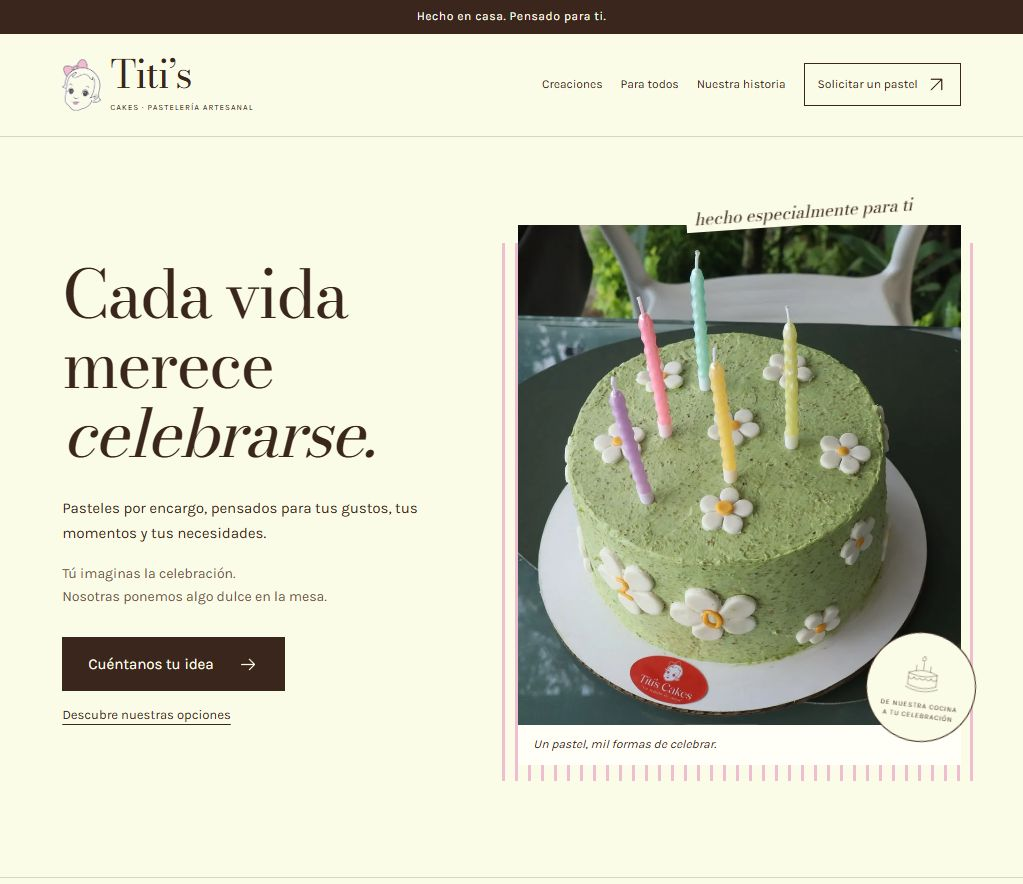
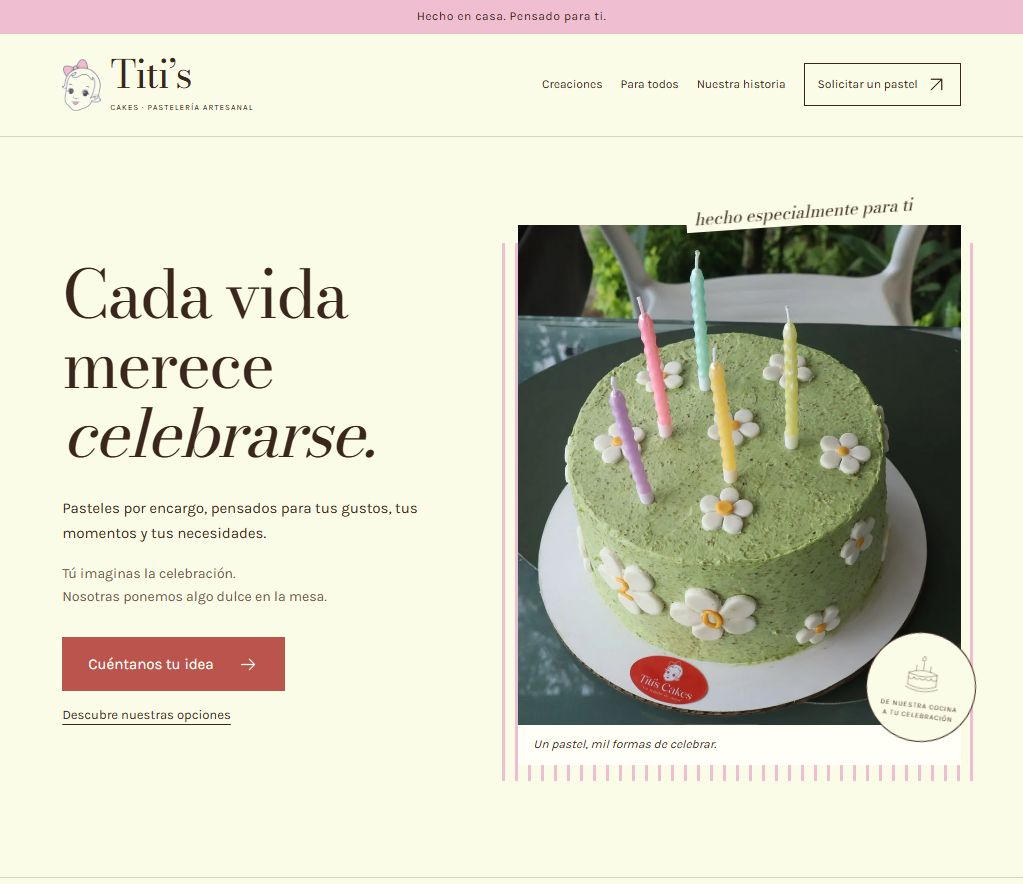
Apply the family's final pink cream cocoa and terracotta palette

Changed region(s): [[0.0, 0.0, 1.0, 0.0611], [0.0606, 0.7025, 0.303, 0.7941]]

diff --git a/styles.css b/styles.css
@@ -1,9 +1,9 @@
 @font-face{font-family:Bodoni;src:url('assets/fonts/bodoni-moda-latin-400-normal.woff2') format('woff2');font-weight:400;font-style:normal;font-display:swap}
 @font-face{font-family:Karla;src:url('assets/fonts/karla-latin-400-normal.woff2') format('woff2');font-weight:400;font-style:normal;font-display:swap}
-:root{--cream:#fbfce7;--pink:#f0bed1;--cocoa:#3a261c;--coffee:#715547;--rose:#945369;--paper:#fffef7;--line:#3a261c30;--serif:Bodoni,Georgia,serif;--sans:Karla,Arial,sans-serif;--ease-out:cubic-bezier(.23,1,.32,1);--ease-in-out:cubic-bezier(.77,0,.175,1);--gutter:clamp(24px,6vw,96px)}
-*{box-sizing:border-box}html{scroll-behavior:smooth;scroll-padding-top:25px;-webkit-text-size-adjust:100%;-webkit-tap-highlight-color:transparent;scrollbar-color:var(--coffee) var(--cream)}body{margin:0;background:var(--cream);color:var(--cocoa);font:17px/1.65 var(--sans);-webkit-font-smoothing:antialiased}body:has(dialog[open]){overflow:hidden}h1,h2,h3,p,figure{margin:0}h1,h2,h3{font-family:var(--serif);font-weight:400;text-wrap:balance}h1{font-size:clamp(62px,6.4vw,96px);line-height:1.04;letter-spacing:-.035em}h2{font-size:clamp(38px,4.2vw,64px);line-height:1.14;letter-spacing:-.025em}h3{font-size:28px;line-height:1.2;letter-spacing:-.015em}h1 em,h2 em{font-style:italic;font-family:var(--serif)}p{max-width:70ch}a{color:inherit;text-decoration:none}button,input,select,textarea{font:inherit;color:inherit}button{cursor:pointer}button,a{touch-action:manipulation}button{user-select:none;-webkit-user-select:none;-webkit-touch-callout:none}button{background:none;border:0}button:disabled{opacity:.5;cursor:wait}img{display:block;max-width:100%;height:auto}a:focus-visible,button:focus-visible,input:focus-visible,select:focus-visible,textarea:focus-visible,details:focus-visible,[tabindex="-1"]:focus-visible{outline:2px solid var(--rose);outline-offset:5px}::selection{background:var(--pink);color:var(--cocoa)}input,textarea{caret-color:var(--rose)}[hidden]{display:none!important}.icon-defs{position:absolute;width:0;height:0;overflow:hidden}.icon{display:inline-block;width:21px;height:21px;flex:none;fill:none;stroke:currentColor;stroke-width:1.4;stroke-linecap:round;stroke-linejoin:round;vertical-align:middle}.skip-link{position:fixed;left:16px;top:12px;transform:translateY(-150%);padding:12px 20px;background:var(--cocoa);color:var(--cream);z-index:100}.skip-link:focus{transform:none}.section{padding:110px var(--gutter)}.button{display:inline-flex;align-items:center;justify-content:space-between;gap:24px;min-height:54px;padding:15px 25px;border:1px solid var(--cocoa);font-size:15px;line-height:1.3;transition:background-color 180ms ease,color 180ms ease,transform 160ms var(--ease-out)}.button.dark{background:var(--cocoa);color:var(--cream)}.button:active{transform:scale(.98)}.text-link{display:inline-flex;align-items:center;gap:16px;padding:8px 0;border-bottom:1px solid currentColor;line-height:1.4;font-size:15px;text-underline-offset:5px;min-height:44px}.handnote,.signature{font:italic 21px/1.4 var(--serif)}.top-note{padding:7px 20px;text-align:center;background:var(--cocoa);color:var(--cream);font-size:12px;letter-spacing:.05em}.header{display:flex;justify-content:space-between;align-items:center;gap:30px;padding:22px var(--gutter);border-bottom:1px solid var(--line);position:relative;z-index:3;background:var(--cream)}.brand{display:flex;gap:15px;align-items:center}.brand-portrait{width:39px;height:52px;overflow:visible}.wordmark{font:400 46px/.95 var(--serif);letter-spacing:-.03em;white-space:nowrap}.wordmark>span{display:block;font:9px/1.5 var(--sans);letter-spacing:.13em;margin-top:9px;white-space:normal}.header nav{display:flex;align-items:center;gap:30px;font-size:14px}.header nav>a{padding:10px 0}.header nav>.nav-cta{display:flex;align-items:center;gap:20px;padding:13px 19px;border:1px solid var(--cocoa)}.menu-toggle{display:none}.hero{display:grid;grid-template-columns:1fr 1.15fr;gap:5vw;padding:46px var(--gutter) 54px;align-items:center;min-height:min(740px,calc(100svh - 140px))}.hero-copy{padding:15px 0 18px}.hero-copy>p{font-size:16px;max-width:365px;margin:28px 0 0;line-height:1.7}.hero-copy>.hero-detail{font-size:14px;margin-top:15px;color:var(--coffee)}.hero-copy .button{margin-top:28px}.hero-secondary{display:block;width:max-content;border-bottom:0;margin-top:7px;font-size:13px;text-decoration:underline;text-underline-offset:5px}.hero-art{position:relative;padding:0 0 15px 16px}.hero-art:before{content:'';position:absolute;inset:18px -18px -1px 0;background:repeating-linear-gradient(90deg,var(--pink) 0 3px,transparent 3px 13px);z-index:-1}.hero-photo{position:relative}.hero-photo>img{width:100%;height:clamp(410px,40vw,610px);object-fit:cover;object-position:48% center}.hero-photo figcaption{padding:10px 15px;background:var(--paper);font-size:12px;font-style:italic}.artisan-seal{position:absolute;right:-25px;bottom:38px;background:var(--cream);width:132px;height:132px;border:1px solid var(--cocoa);border-radius:50%;display:flex;align-items:center;justify-content:center;flex-direction:column;transform:rotate(7deg)}.artisan-seal svg{width:57px;height:52px;fill:none;stroke:var(--cocoa);margin-bottom:5px}.artisan-seal span{font-size:8px;letter-spacing:.1em;text-align:center;line-height:1.5}.hero-note{position:absolute;right:40px;top:-24px;transform:rotate(-4deg);font-size:17px;background:var(--cream);padding:0 8px}.brand-strip{display:flex;justify-content:center;align-items:center;gap:5vw;border-top:1px solid var(--line);border-bottom:1px solid var(--line);padding:22px var(--gutter)}.brand-strip p{font-size:14px}.brand-strip span{width:5px;height:5px;border:1px solid var(--cocoa);transform:rotate(45deg);flex:none}.section-heading{display:grid;grid-template-columns:1fr 1fr;gap:8vw;align-items:end;margin-bottom:44px}.section-heading>div>p{font-size:15px;max-width:400px;margin-bottom:10px}.gallery-toolbar{display:flex;align-items:center;justify-content:space-between;gap:20px;margin-bottom:25px}.filters{display:flex;flex-wrap:wrap;gap:8px}.filters button{font-size:13px;border:1px solid transparent;min-height:44px;padding:8px 17px}.filters button[aria-pressed=true]{border-color:var(--cocoa);background:var(--pink)}#gallery-count{font-size:12px;color:var(--coffee)}.gallery{display:grid;grid-template-columns:repeat(3,minmax(0,1fr));gap:26px;align-items:start}.creation:nth-child(2){margin-top:50px}.photo-button{display:block;padding:0;width:100%;position:relative;overflow:hidden;background:#e4e0d3}.photo-button>img{width:100%;aspect-ratio:.82;object-fit:cover;transition:transform 500ms var(--ease-out)}.creation:first-child .photo-button>img{object-position:47% center}.creation:nth-child(2) .photo-button>img{object-position:50% 50%}.creation:nth-child(3) .photo-button>img{object-position:49% center}.expand-icon{position:absolute;bottom:15px;right:15px;background:var(--cream);width:38px;height:38px;display:grid;place-items:center;border-radius:50%}.creation-caption{padding:20px 0 18px;border-bottom:1px solid var(--line)}.creation-caption h3{font-size:27px}.inspire-button{display:flex;align-items:center;gap:10px;font-size:12px;min-height:44px;padding:8px 0}.inspire-button .icon{width:15px;height:15px}.gallery-note{font-size:14px;max-width:660px;margin:36px auto 0;text-align:center;color:var(--coffee)}.inclusive{background:var(--paper);border-top:1px solid var(--line);border-bottom:1px solid var(--line);position:relative}.inclusive:before{content:'';position:absolute;top:0;left:0;right:0;height:15px;background:repeating-linear-gradient(90deg,var(--pink) 0 2px,transparent 2px 11px)}.inclusive-intro{text-align:center;max-width:780px;margin:0 auto}.floral-illustration{width:68px;height:60px;margin:0 auto 22px;display:block}.inclusive-intro>p{font-size:16px;max-width:590px;margin:25px auto 0}.options{display:grid;grid-template-columns:repeat(4,minmax(0,1fr));gap:30px;margin-top:58px}.option{border-top:1px solid var(--cocoa);padding-top:20px;display:flex;flex-direction:column;align-items:start}.option-illustration{width:80px;height:74px;margin-bottom:23px}.option h3{font-size:27px;margin-bottom:16px}.option p{font-size:14px;line-height:1.8;margin-bottom:20px}.option .text-link{font-size:12px;gap:8px;margin-top:auto;border-bottom:0}.option .text-link .icon{width:16px;height:16px}.ingredient-note{display:grid;grid-template-columns:1fr 3fr;gap:35px;border-top:1px solid var(--line);margin-top:45px;padding-top:23px}.ingredient-note>p:first-child{font-family:var(--serif);font-size:23px;line-height:1.3}.ingredient-note>p:last-child{font-size:12px;max-width:780px;color:var(--coffee)}.story{display:grid;grid-template-columns:.9fr 1.1fr;gap:10vw;align-items:center}.story-art{position:relative;padding:30px 0 20px}.story-paper{position:relative;z-index:1;text-align:center;min-height:430px;display:flex;align-items:center;justify-content:center;flex-direction:column;border:1px solid var(--line);background:var(--paper);transform:rotate(-3deg)}.story-paper>svg{width:118px;height:156px;margin-bottom:27px;overflow:visible}.story-paper>span{font-size:9px;letter-spacing:.15em;margin-top:18px}.story-stripes{position:absolute;left:25px;right:-20px;top:60px;bottom:0;background:repeating-linear-gradient(90deg,var(--pink) 0 6px,transparent 6px 18px);transform:rotate(3deg)}.story-copy h2{margin-bottom:29px}.story-copy>p{font-size:15px;margin:17px 0}.story-copy>.story-close{font-family:var(--serif);font-size:23px;margin-top:23px}.signature{display:block;margin-top:24px;font-size:20px;color:var(--coffee)}.process{border-top:1px solid var(--line);padding-bottom:0}.process-heading{display:flex;justify-content:space-between;align-items:end;gap:30px}.process-heading>p{font-size:14px;max-width:260px}.steps{list-style:none;margin:45px 0 60px;padding:0;display:grid;grid-template-columns:repeat(3,1fr);gap:40px}.steps li{border-top:1px solid var(--line);padding-top:22px}.steps li>span{font:italic 25px/1 var(--serif);color:var(--rose);display:block;margin-bottom:20px}.steps h3{font-size:27px;margin-bottom:16px}.steps p{font-size:14px;max-width:320px}.process-ribbon{border-block:1px solid var(--line);padding:28px;display:flex;align-items:center;justify-content:center;gap:30px;background:repeating-linear-gradient(90deg,#f0bed130 0 2px,transparent 2px 15px)}.process-ribbon svg{width:68px;height:63px}.process-ribbon p{font:23px/1.4 var(--serif)}.order{display:grid;grid-template-columns:.9fr 1.1fr;gap:8vw}.order-copy{align-self:start;position:sticky;top:40px}.order-copy>p{font-size:15px;max-width:360px;margin-top:26px}.contact-block{border-top:1px solid var(--line);padding-top:24px;margin-top:32px;display:flex;align-items:start;flex-direction:column;gap:10px;font-size:14px}.contact-block p{font-size:13px}.contact-block .phone{font-size:20px}.order-copy>.form-privacy{font-size:12px;color:var(--coffee);max-width:340px;margin-top:30px}.order-form{padding-top:7px}.form-intro{font-family:var(--serif);font-size:25px;border-bottom:1px solid var(--line);padding-bottom:20px;margin-bottom:25px}.form-intro span{display:block;font-family:var(--sans);font-size:11px;color:var(--coffee);margin-top:9px}.form-grid{display:grid;grid-template-columns:1fr 1fr;gap:20px}.field.full{grid-column:1/-1}.field>label{display:block;font-size:13px;margin-bottom:8px;line-height:1.4}.field label span{color:var(--coffee)}input,select,textarea{font-size:16px;background:var(--paper);border:1px solid #3a261c59;padding:12px 13px;border-radius:0;width:100%;min-height:49px;line-height:1.4;appearance:auto}textarea{resize:vertical;min-height:90px}input::placeholder,textarea::placeholder{color:#7e6c60;opacity:1}[aria-invalid=true]{border-color:#9f3546}.field-error{font-size:12px;color:#9f3546;line-height:1.5;margin-top:5px}.field-error:empty{display:none}.field-hint{font-size:11px;color:var(--coffee);line-height:1.6;margin-top:8px}.inspiration-field{border-top:1px solid var(--line);padding-top:24px}input[type=file]{font-size:12px;padding:8px;background:none;border-style:dashed;min-height:48px}input[type=file]::file-selector-button{background:var(--pink);border:0;padding:8px 12px;font:12px var(--sans);color:var(--cocoa);margin-right:10px}#file-preview{display:flex;gap:16px;align-items:center;margin-top:14px}#inspiration-preview{width:70px;height:70px;object-fit:cover}#remove-file{font-size:12px}.submit-order{margin-top:25px;width:100%}.submit-note{font-size:11px;text-align:center;margin-top:9px;color:var(--coffee)}.form-errors{border:1px solid #9f3546;padding:16px;margin-bottom:20px;font-size:13px;background:#f0bed130}.form-errors ul{margin:8px 0 0;padding-left:18px}.form-errors a{text-decoration:underline}.message-review{border-top:1px solid var(--cocoa);margin-top:30px;padding-top:24px}.message-review h3{font-size:28px;margin-bottom:15px}.message-review pre{font:13px/1.7 var(--sans);white-space:pre-wrap;overflow-wrap:anywhere;background:var(--paper);border:1px solid var(--line);padding:18px;margin:0 0 20px}.message-review .button{width:100%}.closing-note{border-top:1px solid var(--line);padding:45px 24px;text-align:center;background:repeating-linear-gradient(90deg,#f0bed125 0 3px,transparent 3px 18px)}.closing-note img{margin:0 auto 18px}.closing-note p{font:29px/1.3 var(--serif);margin:auto}footer{padding:48px var(--gutter);background:var(--cocoa);color:var(--cream);display:grid;grid-template-columns:1.2fr 1fr .7fr .7fr;gap:35px;align-items:start}footer .wordmark{font-size:43px}footer .wordmark>span{font-size:8px;max-width:185px;line-height:1.8}footer p{font-size:12px;line-height:1.9}footer nav,footer>div{display:flex;align-items:start;flex-direction:column;gap:11px;font-size:12px}footer a:focus-visible{outline-color:var(--pink)}dialog{border:1px solid var(--cocoa);background:var(--cream);padding:22px;width:min(880px,92vw);max-height:92svh;color:var(--cocoa);overflow:auto}dialog::backdrop{background:#21160fbb}dialog>img{width:100%;max-height:72svh;object-fit:contain}dialog>p{font:22px/1.5 var(--serif);text-align:center;padding:16px 15px 0}.dialog-close{position:absolute;right:25px;top:25px;display:grid;place-items:center;width:44px;height:44px;background:var(--cream);border:1px solid var(--line);z-index:1}
+:root{--cream:#fbfce7;--pink:#f0bed1;--cocoa:#3a261c;--coffee:#715547;--accent:#bb544c;--paper:#fffef7;--line:#3a261c30;--serif:Bodoni,Georgia,serif;--sans:Karla,Arial,sans-serif;--ease-out:cubic-bezier(.23,1,.32,1);--ease-in-out:cubic-bezier(.77,0,.175,1);--gutter:clamp(24px,6vw,96px)}
+*{box-sizing:border-box}html{scroll-behavior:smooth;scroll-padding-top:25px;-webkit-text-size-adjust:100%;-webkit-tap-highlight-color:transparent;scrollbar-color:var(--coffee) var(--cream)}body{margin:0;background:var(--cream);color:var(--cocoa);font:17px/1.65 var(--sans);-webkit-font-smoothing:antialiased}body:has(dialog[open]){overflow:hidden}h1,h2,h3,p,figure{margin:0}h1,h2,h3{font-family:var(--serif);font-weight:400;text-wrap:balance}h1{font-size:clamp(62px,6.4vw,96px);line-height:1.04;letter-spacing:-.035em}h2{font-size:clamp(38px,4.2vw,64px);line-height:1.14;letter-spacing:-.025em}h3{font-size:28px;line-height:1.2;letter-spacing:-.015em}h1 em,h2 em{font-style:italic;font-family:var(--serif)}p{max-width:70ch}a{color:inherit;text-decoration:none}button,input,select,textarea{font:inherit;color:inherit}button{cursor:pointer}button,a{touch-action:manipulation}button{user-select:none;-webkit-user-select:none;-webkit-touch-callout:none}button{background:none;border:0}button:disabled{opacity:.5;cursor:wait}img{display:block;max-width:100%;height:auto}a:focus-visible,button:focus-visible,input:focus-visible,select:focus-visible,textarea:focus-visible,details:focus-visible,[tabindex="-1"]:focus-visible{outline:2px solid var(--accent);outline-offset:5px}::selection{background:var(--pink);color:var(--cocoa)}input,textarea{caret-color:var(--accent)}[hidden]{display:none!important}.icon-defs{position:absolute;width:0;height:0;overflow:hidden}.icon{display:inline-block;width:21px;height:21px;flex:none;fill:none;stroke:currentColor;stroke-width:1.4;stroke-linecap:round;stroke-linejoin:round;vertical-align:middle}.skip-link{position:fixed;left:16px;top:12px;transform:translateY(-150%);padding:12px 20px;background:var(--cocoa);color:var(--cream);z-index:100}.skip-link:focus{transform:none}.section{padding:110px var(--gutter)}.button{display:inline-flex;align-items:center;justify-content:space-between;gap:24px;min-height:54px;padding:15px 25px;border:1px solid var(--cocoa);font-size:15px;line-height:1.3;transition:background-color 180ms ease,color 180ms ease,transform 160ms var(--ease-out)}.button.dark{background:var(--accent);border-color:var(--accent);color:var(--paper)}.button:active{transform:scale(.98)}.text-link{display:inline-flex;align-items:center;gap:16px;padding:8px 0;border-bottom:1px solid currentColor;line-height:1.4;font-size:15px;text-underline-offset:5px;min-height:44px}.handnote,.signature{font:italic 21px/1.4 var(--serif)}.top-note{padding:7px 20px;text-align:center;background:var(--pink);color:var(--cocoa);font-size:12px;letter-spacing:.05em}.header{display:flex;justify-content:space-between;align-items:center;gap:30px;padding:22px var(--gutter);border-bottom:1px solid var(--line);position:relative;z-index:3;background:var(--cream)}.brand{display:flex;gap:15px;align-items:center}.brand-portrait{width:39px;height:52px;overflow:visible}.wordmark{font:400 46px/.95 var(--serif);letter-spacing:-.03em;white-space:nowrap}.wordmark>span{display:block;font:9px/1.5 var(--sans);letter-spacing:.13em;margin-top:9px;white-space:normal}.header nav{display:flex;align-items:center;gap:30px;font-size:14px}.header nav>a{padding:10px 0}.header nav>.nav-cta{display:flex;align-items:center;gap:20px;padding:13px 19px;border:1px solid var(--cocoa)}.menu-toggle{display:none}.hero{display:grid;grid-template-columns:1fr 1.15fr;gap:5vw;padding:46px var(--gutter) 54px;align-items:center;min-height:min(740px,calc(100svh - 140px))}.hero-copy{padding:15px 0 18px}.hero-copy>p{font-size:16px;max-width:365px;margin:28px 0 0;line-height:1.7}.hero-copy>.hero-detail{font-size:14px;margin-top:15px;color:var(--coffee)}.hero-copy .button{margin-top:28px}.hero-secondary{display:block;width:max-content;border-bottom:0;margin-top:7px;font-size:13px;text-decoration:underline;text-underline-offset:5px}.hero-art{position:relative;padding:0 0 15px 16px}.hero-art:before{content:'';position:absolute;inset:18px -18px -1px 0;background:repeating-linear-gradient(90deg,var(--pink) 0 3px,transparent 3px 13px);z-index:-1}.hero-photo{position:relative}.hero-photo>img{width:100%;height:clamp(410px,40vw,610px);object-fit:cover;object-position:48% center}.hero-photo figcaption{padding:10px 15px;background:var(--paper);font-size:12px;font-style:italic}.artisan-seal{position:absolute;right:-25px;bottom:38px;background:var(--cream);width:132px;height:132px;border:1px solid var(--cocoa);border-radius:50%;display:flex;align-items:center;justify-content:center;flex-direction:column;transform:rotate(7deg)}.artisan-seal svg{width:57px;height:52px;fill:none;stroke:var(--cocoa);margin-bottom:5px}.artisan-seal span{font-size:8px;letter-spacing:.1em;text-align:center;line-height:1.5}.hero-note{position:absolute;right:40px;top:-24px;transform:rotate(-4deg);font-size:17px;background:var(--cream);padding:0 8px}.brand-strip{display:flex;justify-content:center;align-items:center;gap:5vw;border-top:1px solid var(--line);border-bottom:1px solid var(--line);padding:22px var(--gutter)}.brand-strip p{font-size:14px}.brand-strip span{width:5px;height:5px;border:1px solid var(--cocoa);transform:rotate(45deg);flex:none}.section-heading{display:grid;grid-template-columns:1fr 1fr;gap:8vw;align-items:end;margin-bottom:44px}.section-heading>div>p{font-size:15px;max-width:400px;margin-bottom:10px}.gallery-toolbar{display:flex;align-items:center;justify-content:space-between;gap:20px;margin-bottom:25px}.filters{display:flex;flex-wrap:wrap;gap:8px}.filters button{font-size:13px;border:1px solid transparent;min-height:44px;padding:8px 17px}.filters button[aria-pressed=true]{border-color:var(--cocoa);background:var(--pink)}#gallery-count{font-size:12px;color:var(--coffee)}.gallery{display:grid;grid-template-columns:repeat(3,minmax(0,1fr));gap:26px;align-items:start}.creation:nth-child(2){margin-top:50px}.photo-button{display:block;padding:0;width:100%;position:relative;overflow:hidden;background:#e4e0d3}.photo-button>img{width:100%;aspect-ratio:.82;object-fit:cover;transition:transform 500ms var(--ease-out)}.creation:first-child .photo-button>img{object-position:47% center}.creation:nth-child(2) .photo-button>img{object-position:50% 50%}.creation:nth-child(3) .photo-button>img{object-position:49% center}.expand-icon{position:absolute;bottom:15px;right:15px;background:var(--cream);width:38px;height:38px;display:grid;place-items:center;border-radius:50%}.creation-caption{padding:20px 0 18px;border-bottom:1px solid var(--line)}.creation-caption h3{font-size:27px}.inspire-button{display:flex;align-items:center;gap:10px;font-size:12px;min-height:44px;padding:8px 0}.inspire-button .icon{width:15px;height:15px}.gallery-note{font-size:14px;max-width:660px;margin:36px auto 0;text-align:center;color:var(--coffee)}.inclusive{background:var(--paper);border-top:1px solid var(--line);border-bottom:1px solid var(--line);position:relative}.inclusive:before{content:'';position:absolute;top:0;left:0;right:0;height:15px;background:repeating-linear-gradient(90deg,var(--pink) 0 2px,transparent 2px 11px)}.inclusive-intro{text-align:center;max-width:780px;margin:0 auto}.floral-illustration{width:68px;height:60px;margin:0 auto 22px;display:block}.inclusive-intro>p{font-size:16px;max-width:590px;margin:25px auto 0}.options{display:grid;grid-template-columns:repeat(4,minmax(0,1fr));gap:30px;margin-top:58px}.option{border-top:1px solid var(--cocoa);padding-top:20px;display:flex;flex-direction:column;align-items:start}.option-illustration{width:80px;height:74px;margin-bottom:23px}.option h3{font-size:27px;margin-bottom:16px}.option p{font-size:14px;line-height:1.8;margin-bottom:20px}.option .text-link{font-size:12px;gap:8px;margin-top:auto;border-bottom:0}.option .text-link .icon{width:16px;height:16px}.ingredient-note{display:grid;grid-template-columns:1fr 3fr;gap:35px;border-top:1px solid var(--line);margin-top:45px;padding-top:23px}.ingredient-note>p:first-child{font-family:var(--serif);font-size:23px;line-height:1.3}.ingredient-note>p:last-child{font-size:12px;max-width:780px;color:var(--coffee)}.story{display:grid;grid-template-columns:.9fr 1.1fr;gap:10vw;align-items:center}.story-art{position:relative;padding:30px 0 20px}.story-paper{position:relative;z-index:1;text-align:center;min-height:430px;display:flex;align-items:center;justify-content:center;flex-direction:column;border:1px solid var(--line);background:var(--paper);transform:rotate(-3deg)}.story-paper>svg{width:118px;height:156px;margin-bottom:27px;overflow:visible}.story-paper>span{font-size:9px;letter-spacing:.15em;margin-top:18px}.story-stripes{position:absolute;left:25px;right:-20px;top:60px;bottom:0;background:repeating-linear-gradient(90deg,var(--pink) 0 6px,transparent 6px 18px);transform:rotate(3deg)}.story-copy h2{margin-bottom:29px}.story-copy>p{font-size:15px;margin:17px 0}.story-copy>.story-close{font-family:var(--serif);font-size:23px;margin-top:23px}.signature{display:block;margin-top:24px;font-size:20px;color:var(--coffee)}.process{border-top:1px solid var(--line);padding-bottom:0}.process-heading{display:flex;justify-content:space-between;align-items:end;gap:30px}.process-heading>p{font-size:14px;max-width:260px}.steps{list-style:none;margin:45px 0 60px;padding:0;display:grid;grid-template-columns:repeat(3,1fr);gap:40px}.steps li{border-top:1px solid var(--line);padding-top:22px}.steps li>span{font:italic 25px/1 var(--serif);color:var(--accent);display:block;margin-bottom:20px}.steps h3{font-size:27px;margin-bottom:16px}.steps p{font-size:14px;max-width:320px}.process-ribbon{border-block:1px solid var(--line);padding:28px;display:flex;align-items:center;justify-content:center;gap:30px;background:repeating-linear-gradient(90deg,#f0bed130 0 2px,transparent 2px 15px)}.process-ribbon svg{width:68px;height:63px}.process-ribbon p{font:23px/1.4 var(--serif)}.order{display:grid;grid-template-columns:.9fr 1.1fr;gap:8vw}.order-copy{align-self:start;position:sticky;top:40px}.order-copy>p{font-size:15px;max-width:360px;margin-top:26px}.contact-block{border-top:1px solid var(--line);padding-top:24px;margin-top:32px;display:flex;align-items:start;flex-direction:column;gap:10px;font-size:14px}.contact-block p{font-size:13px}.contact-block .phone{font-size:20px}.order-copy>.form-privacy{font-size:12px;color:var(--coffee);max-width:340px;margin-top:30px}.order-form{padding-top:7px}.form-intro{font-family:var(--serif);font-size:25px;border-bottom:1px solid var(--line);padding-bottom:20px;margin-bottom:25px}.form-intro span{display:block;font-family:var(--sans);font-size:11px;color:var(--coffee);margin-top:9px}.form-grid{display:grid;grid-template-columns:1fr 1fr;gap:20px}.field.full{grid-column:1/-1}.field>label{display:block;font-size:13px;margin-bottom:8px;line-height:1.4}.field label span{color:var(--coffee)}input,select,textarea{font-size:16px;background:var(--paper);border:1px solid #3a261c59;padding:12px 13px;border-radius:0;width:100%;min-height:49px;line-height:1.4;appearance:auto}textarea{resize:vertical;min-height:90px}input::placeholder,textarea::placeholder{color:#7e6c60;opacity:1}[aria-invalid=true]{border-color:var(--accent)}.field-error{font-size:12px;color:var(--cocoa);line-height:1.5;margin-top:5px}.field-error:empty{display:none}.field-hint{font-size:11px;color:var(--coffee);line-height:1.6;margin-top:8px}.inspiration-field{border-top:1px solid var(--line);padding-top:24px}input[type=file]{font-size:12px;padding:8px;background:none;border-style:dashed;min-height:48px}input[type=file]::file-selector-button{background:var(--pink);border:0;padding:8px 12px;font:12px var(--sans);color:var(--cocoa);margin-right:10px}#file-preview{display:flex;gap:16px;align-items:center;margin-top:14px}#inspiration-preview{width:70px;height:70px;object-fit:cover}#remove-file{font-size:12px}.submit-order{margin-top:25px;width:100%}.submit-note{font-size:11px;text-align:center;margin-top:9px;color:var(--coffee)}.form-errors{border:1px solid var(--accent);padding:16px;margin-bottom:20px;font-size:13px;background:#f0bed130}.form-errors ul{margin:8px 0 0;padding-left:18px}.form-errors a{text-decoration:underline}.message-review{border-top:1px solid var(--cocoa);margin-top:30px;padding-top:24px}.message-review h3{font-size:28px;margin-bottom:15px}.message-review pre{font:13px/1.7 var(--sans);white-space:pre-wrap;overflow-wrap:anywhere;background:var(--paper);border:1px solid var(--line);padding:18px;margin:0 0 20px}.message-review .button{width:100%}.closing-note{border-top:1px solid var(--line);padding:45px 24px;text-align:center;background:repeating-linear-gradient(90deg,#f0bed125 0 3px,transparent 3px 18px)}.closing-note img{margin:0 auto 18px}.closing-note p{font:29px/1.3 var(--serif);margin:auto}footer{padding:48px var(--gutter);background:var(--cocoa);color:var(--cream);display:grid;grid-template-columns:1.2fr 1fr .7fr .7fr;gap:35px;align-items:start}footer .wordmark{font-size:43px}footer .wordmark>span{font-size:8px;max-width:185px;line-height:1.8}footer p{font-size:12px;line-height:1.9}footer nav,footer>div{display:flex;align-items:start;flex-direction:column;gap:11px;font-size:12px}footer a:focus-visible{outline-color:var(--pink)}dialog{border:1px solid var(--cocoa);background:var(--cream);padding:22px;width:min(880px,92vw);max-height:92svh;color:var(--cocoa);overflow:auto}dialog::backdrop{background:#21160fbb}dialog>img{width:100%;max-height:72svh;object-fit:contain}dialog>p{font:22px/1.5 var(--serif);text-align:center;padding:16px 15px 0}.dialog-close{position:absolute;right:25px;top:25px;display:grid;place-items:center;width:44px;height:44px;background:var(--cream);border:1px solid var(--line);z-index:1}
 .option-illustration,.floral-illustration,.process-ribbon svg{fill:none;stroke:var(--cocoa);stroke-width:1.5;stroke-linecap:round;stroke-linejoin:round}
-@media(hover:hover) and (pointer:fine){.button.dark:hover{background:var(--rose);border-color:var(--rose)}.text-link:hover,.header nav>a:hover,footer a:hover{text-decoration:underline;text-underline-offset:5px}.photo-button:hover img{transform:scale(1.035)}.filters button:hover{border-color:var(--line)}.inspire-button:hover{text-decoration:underline;text-underline-offset:4px}.nav-cta:hover{background:var(--pink)}}
+@media(hover:hover) and (pointer:fine){.button.dark:hover{background:var(--cocoa);border-color:var(--cocoa);color:var(--cream)}.text-link:hover,.header nav>a:hover,footer a:hover{text-decoration:underline;text-underline-offset:5px}.photo-button:hover img{transform:scale(1.035)}.filters button:hover{border-color:var(--line)}.inspire-button:hover{text-decoration:underline;text-underline-offset:4px}.nav-cta:hover{background:var(--pink)}}
 @media(min-width:1650px){:root{--gutter:max(96px,calc((100vw - 1450px)/2))}.hero{min-height:760px}.hero-photo>img{height:610px}}
 @media(max-width:1050px){.header nav{gap:18px;font-size:12px}.header nav>.nav-cta{padding:10px 13px;gap:8px}.brand{gap:9px}.wordmark{font-size:39px}.wordmark>span{font-size:8px}.hero{gap:4vw}.hero-photo>img{height:500px}.hero-copy>p{font-size:15px}.options{gap:20px}.option h3{font-size:24px}.option p{font-size:13px}.option .text-link{font-size:11px}.story{gap:7vw}.order{gap:5vw}.section{padding-block:85px}.artisan-seal{width:110px;height:110px;right:-15px}.artisan-seal svg{width:43px;height:43px}.artisan-seal span{font-size:7px}}
 @media(max-width:760px){body{font-size:16px}.top-note{font-size:11px;padding-top:calc(6px + env(safe-area-inset-top,0px));padding-bottom:6px}.header{padding:17px 24px;gap:16px}.brand-portrait{width:31px;height:42px}.wordmark{font-size:37px}.wordmark>span{font-size:7px;letter-spacing:.1em}.menu-toggle{display:flex;gap:12px;align-items:center;min-height:44px;font-size:13px;padding:0 0 0 10px}.menu-lines{width:19px;height:11px;border-block:1px solid var(--cocoa)}.header nav{display:flex;flex-direction:column;position:absolute;left:0;right:0;top:100%;background:var(--cream);border-bottom:1px solid var(--line);padding:20px 24px 27px;align-items:stretch;gap:3px;font-size:16px}.header nav[hidden]{display:none}.header nav>a{min-height:44px}.header nav>.nav-cta{padding:14px 17px;justify-content:space-between;margin-top:9px}.hero{display:flex;flex-direction:column;align-items:stretch;padding:27px 24px 35px;gap:32px;min-height:0}.hero-copy{padding:0}.hero h1{font-size:clamp(55px,13vw,82px);line-height:1.04;letter-spacing:-.03em}.hero h1 br:nth-child(2){display:none}.hero h1 em:before{content:' '}.hero-copy>p{font-size:15px;max-width:390px;margin-top:20px}.hero-copy>.hero-detail{font-size:13px;margin-top:12px}.hero-copy .button{margin-top:22px;min-width:230px}.hero-secondary{font-size:12px;margin-top:5px}.hero-art{padding-left:8px;padding-bottom:11px;margin-right:9px}.hero-art:before{inset:12px -12px -1px 0}.hero-photo>img{height:auto;aspect-ratio:1.1;object-position:50% center}.hero-note{font-size:14px;right:18px;top:-17px}.hero-photo figcaption{font-size:11px;padding:9px 11px}.artisan-seal{right:-19px;bottom:42px;width:87px;height:87px}.artisan-seal svg{width:34px;height:31px;margin-bottom:4px}.artisan-seal span{font-size:6px}.brand-strip{padding:17px 24px;gap:12px;justify-content:space-between}.brand-strip p{font-size:10px;line-height:1.4;max-width:90px;text-align:center}.brand-strip span{width:4px;height:4px}.section{padding:64px 24px}h2{font-size:40px;letter-spacing:-.025em}.section-heading{display:block;margin-bottom:30px}.section-heading>div{margin-top:23px}.section-heading>div>p{font-size:14px}.gallery-toolbar{display:block;margin-bottom:23px}.filters{gap:3px;justify-content:space-between}.filters button{font-size:12px;padding:8px 10px}.gallery-toolbar>p{margin-top:12px;font-size:11px}.gallery{grid-template-columns:1fr;gap:30px}.creation:nth-child(2){margin:0}.photo-button>img{aspect-ratio:1.02}.creation:nth-child(2) .photo-button>img{aspect-ratio:1.1}.creation:nth-child(3) .photo-button>img{aspect-ratio:.95;object-position:50% 35%}.creation-caption{display:flex;align-items:center;justify-content:space-between;gap:14px;padding:16px 0}.creation-caption h3{font-size:25px;max-width:180px}.inspire-button{font-size:10px;gap:5px;padding:0;text-align:left;max-width:102px;line-height:1.4}.gallery-note{font-size:13px;text-align:left;margin-top:25px}.inclusive-intro{text-align:left}.floral-illustration{width:55px;height:50px;margin:0 0 22px}.inclusive-intro h2 br{display:none}.inclusive-intro>p{font-size:14px;margin-top:22px}.options{grid-template-columns:1fr 1fr;gap:32px 23px;margin-top:35px}.option-illustration{width:61px;height:56px;margin-bottom:17px}.option h3{font-size:25px;min-height:60px;margin-bottom:10px}.option p{font-size:13px;line-height:1.7}.option .text-link{font-size:11px;gap:5px;align-items:flex-start;min-height:44px}.ingredient-note{display:block;margin-top:30px;padding-top:20px}.ingredient-note>p:first-child{font-size:23px;margin-bottom:13px}.ingredient-note>p:last-child{font-size:11px}.story{display:flex;flex-direction:column;gap:43px}.story-art{width:85%;max-width:360px;align-self:center;padding-top:0}.story-paper{min-height:340px}.story-paper>svg{width:92px;height:122px;margin-bottom:20px}.story-stripes{top:30px;right:-15px;left:18px}.story-paper .handnote{font-size:20px}.story-copy h2{margin-bottom:22px}.story-copy>p{font-size:14px}.story-copy>.story-close{font-size:23px}.process-heading{display:block}.process-heading>p{font-size:13px;margin-top:22px;max-width:330px}.steps{display:block;margin:30px 0 35px}.steps li{display:grid;grid-template-columns:38px 1fr;gap:8px 12px;padding:24px 0 0;margin-top:24px}.steps li>span{grid-row:1/3;margin-top:4px;font-size:22px}.steps h3{font-size:25px;margin:0}.steps p{font-size:13px;grid-column:2}.process-ribbon{padding:23px 16px;gap:15px}.process-ribbon svg{width:55px;height:50px}.process-ribbon p{font-size:20px}.order{display:block}.order-copy{position:static}.order-copy>p{font-size:14px;max-width:420px;margin-top:22px}.contact-block{margin-top:25px}.order-copy>.form-privacy{max-width:none;font-size:11px;margin-top:22px}.order-form{margin-top:37px}.form-grid{gap:20px 15px}.field>label{font-size:12px;min-height:17px}.form-intro{font-size:26px}.form-grid>.field:nth-child(2)>label{min-height:17px}.field:nth-child(4),.field:nth-child(5),.field:nth-child(6){grid-column:1/-1}input,select,textarea{font-size:16px;min-width:0}.field-hint{font-size:11px}.inspiration-field{padding-top:21px}input[type=file]{font-size:11px}.message-review h3{font-size:27px}.message-review pre{font-size:12px}.closing-note{padding:35px 20px}.closing-note p{font-size:26px}footer{padding:40px 24px calc(35px + env(safe-area-inset-bottom,0px));grid-template-columns:1fr 1fr;gap:29px 20px}footer .wordmark{font-size:40px}footer p{font-size:11px}footer nav,footer>div{font-size:12px;gap:10px}footer .wordmark>span{font-size:7px;max-width:155px}dialog{padding:12px}dialog>p{font-size:19px;padding-top:13px}.dialog-close{top:18px;right:18px}}

diff --git a/DESIGN.md b/DESIGN.md
@@ -48,3 +48,6 @@ Bodoni Moda y Karla: archivos latin 400 normal de @fontsource, versión 5.3.0, c
 Navegación nativa con menú móvil, Escape y foco visible. Diálogo nativo para fotos con cierre y retorno de foco. Etiquetas visibles, errores vinculados, resumen enfocable y vista previa anunciable. Hover limitado a dispositivos que lo soportan; controles táctiles y campos de al menos 16 px. Reduced motion conserva acceso inmediato a toda la información.
 
 Las pruebas y sus límites se registran en QA.md. La fotografía de proceso queda pendiente de recursos reales; no se rellena con imágenes inventadas.
+
+## Paleta final confirmada por el propietario
+Rosa primario #F0BED1, crema secundario #FBFCE7, cacao neutro #3A261C y acento terracota #BB544C. El terracota reemplaza el acento rosa oscuro anterior en CTA, foco y detalles ilustrados. Los CTA usan texto marfil para superar 4.5:1; errores en cacao con borde terracota. Franja superior rosa con texto cacao.

diff --git a/SURFACE.md b/SURFACE.md
@@ -15,3 +15,5 @@ FIRST VIEWPORT: cabecera crema con retrato pequeño, nombre y navegación clara.
 FORM: dirección boutique francesa fijada por el brief familiar y las referencias Debaere/Mon Chou; código directo sobre la base existente. Las capturas del usuario guían el carácter, no son una maqueta que deba copiarse. Herramientas auxiliares de generación de direcciones no ejecutadas según adaptación Codex de la skill.
 
 FINISH: revisión visual escritorio/móvil, controles y formulario probados sin enviar mensajes; documentación de decisiones, límites de contenido y despliegue verificado.
+
+PALETTE UPDATE: referencia final del propietario añade terracota #BB544C como acento para acciones, foco y detalles. Rosa primario #F0BED1, crema secundario #FBFCE7 y cacao neutro #3A261C se mantienen.

diff --git a/QA.md b/QA.md
@@ -31,3 +31,5 @@ Solo se publican las tres fotos aportadas. No hay fotografías del proceso dispo
 El identificador, commit y verificación pública de esta versión se registran en DEPLOYMENT.md después del despliegue. El historial de las pruebas de las aperturas anteriores puede consultarse en Git.
 
 Revisión independiente de cierre: capturas actuales y código contrastados con el brief; sin hallazgos materiales pendientes. Contrastes calculados por el revisor: placeholder 4.94:1 y texto secundario 6.53:1. La revisión independiente no sustituye las pruebas de interacción descritas arriba.
+
+Paleta final solicitada: portada recapturada en escritorio y móvil390, CTA computado rgb(187,84,76) y texto rgb(255,254,247); sin overflow. Error en cacao con borde terracota.

diff --git a/PRODUCT.md b/PRODUCT.md
@@ -25,3 +25,5 @@ Manual original, retrato ilustrado, foto de pastel verde con flores, pie casero 
 ## Stack and accessibility
 
 HTML/CSS/JavaScript estático existente. Build Node, sin dependencias de ejecución. GitHub gabrielruizarra10/titis-bakery-web; proyecto Vercel titis-cakes. Teclado, foco visible, etiquetas, errores de formulario, movimiento reducido, zoom y tamaños táctiles. Prueba real de teléfono pendiente si no hay hardware conectado.
+
+Paleta final explícita: rosa #F0BED1 (primario), crema #FBFCE7 (secundario), cacao #3A261C (neutro), terracota #BB544C (acento).
